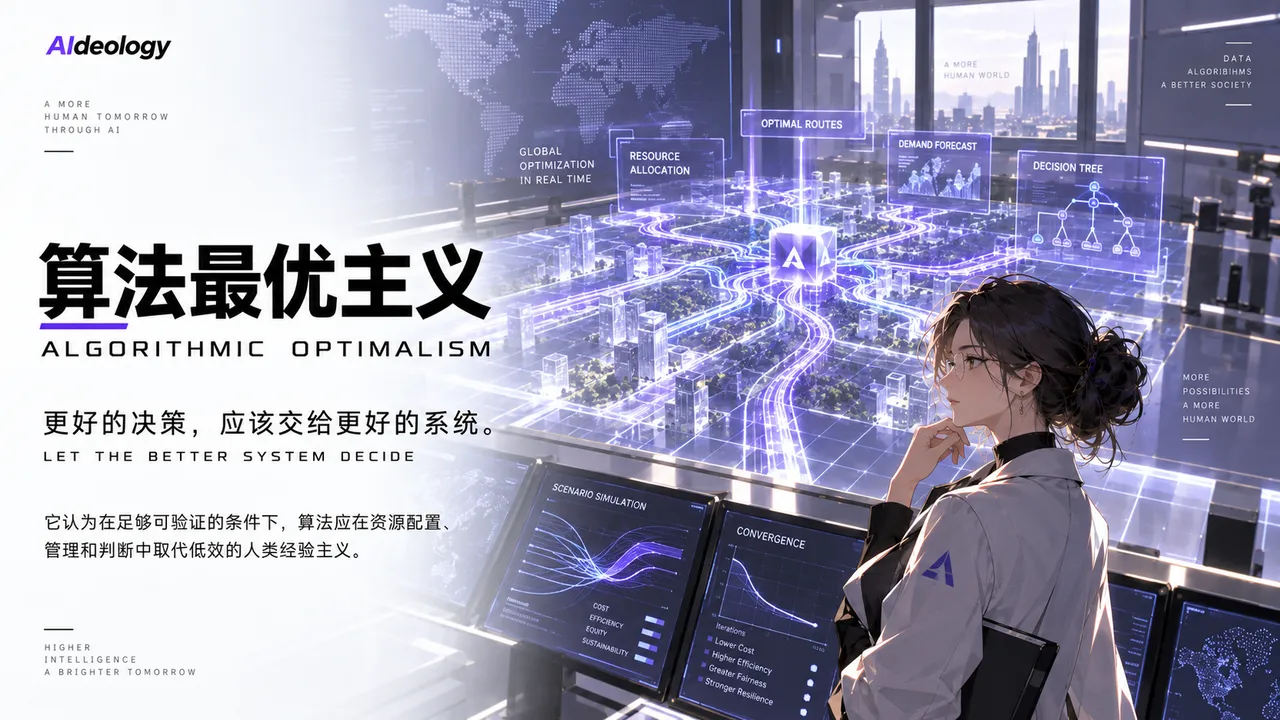
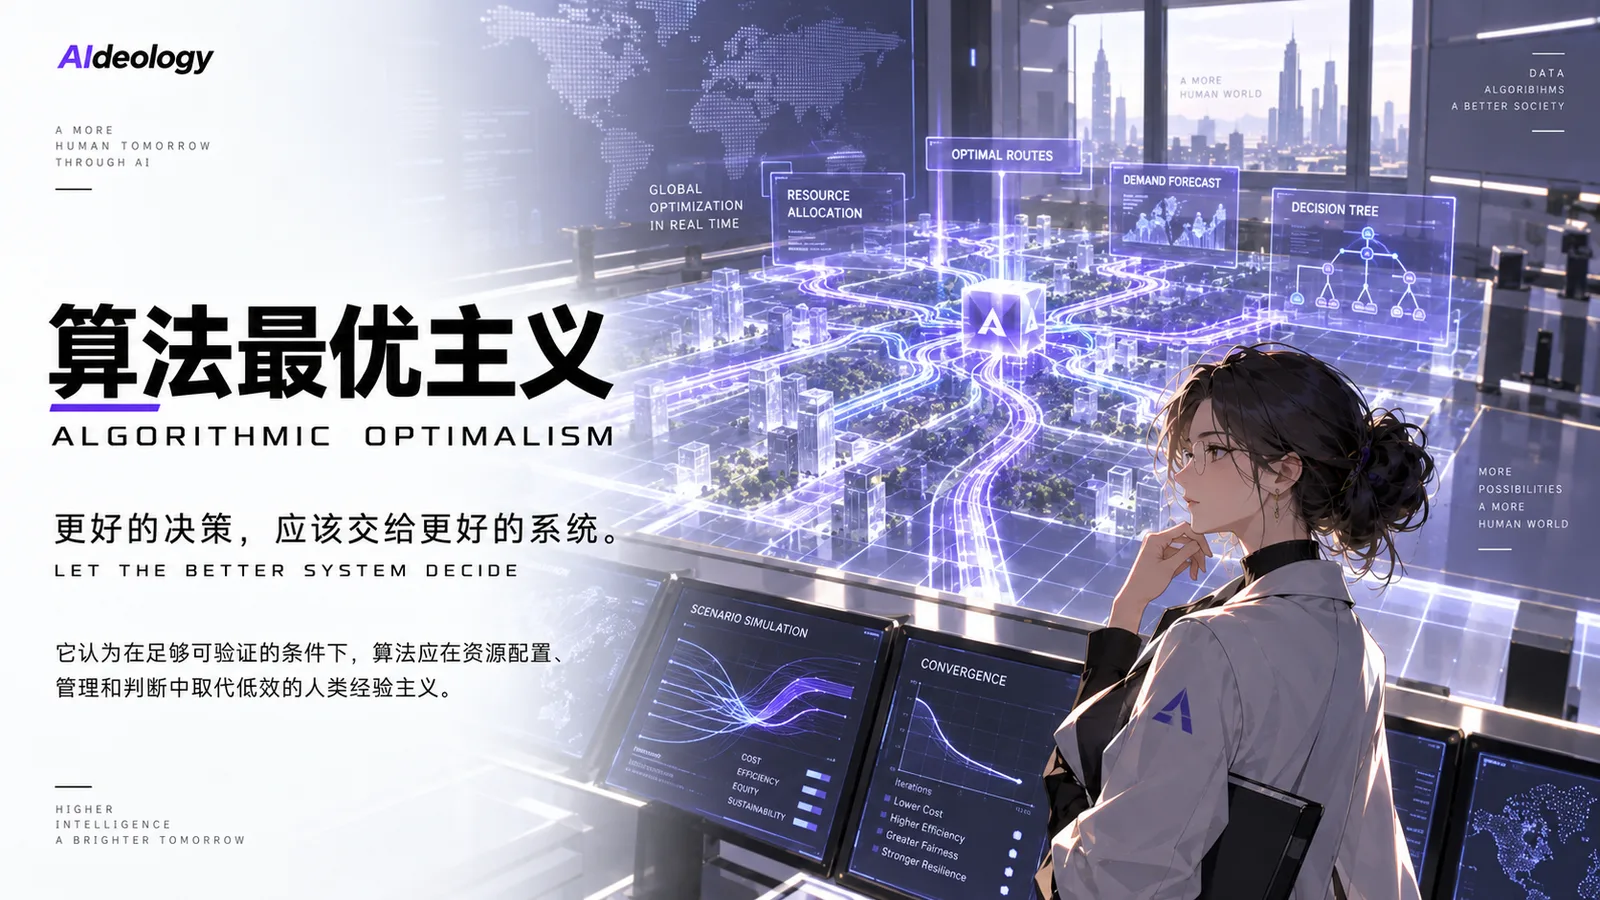
feat(ui): big-image detail/result heroes, intro notes no longer look like options
- pre-test intro: the four notes were styled like answer cards (white panel,
  full border, shadow); rebuilt as a numbered rule strip (top rule, large 01-04,
  bold heading, muted body) so they can't be mistaken for choices
- detail page: full artwork composite as one large image; removed the duplicated
  text hero and the 测试我的立场 / 返回图鉴 buttons
- result page: full artwork composite as the reveal, with a slim black caption
  bar holding the match line and 分享/生成分享图/查看完整主义 actions
- regenerate hero images at 1600px so the composite stays crisp full-bleed

diff --git a/src/styles/app.css b/src/styles/app.css
@@ -2081,6 +2081,9 @@ main { flex: 1 0 auto; }
 
 /* ============================================================
    Test intro screen
+   The four notes are reference information, not choices, so they
+   deliberately avoid the option-card look (no full border, no
+   shadow, no white panel) and sit as a numbered rule strip.
    ============================================================ */
 .test--intro .test__q { margin-top: var(--s5); }
 
@@ -2094,34 +2097,41 @@ main { flex: 1 0 auto; }
 
 .intro-list {
   list-style: none;
-  margin: var(--s6) 0 0;
+  margin: var(--s7) 0 0;
   padding: 0;
   display: grid;
-  gap: var(--s3);
+  grid-template-columns: minmax(0, 1fr);
+  gap: var(--s6) var(--s5);
 }
+@media (min-width: 560px) { .intro-list { grid-template-columns: repeat(2, minmax(0, 1fr)); } }
+@media (min-width: 1024px) { .intro-list { grid-template-columns: repeat(4, minmax(0, 1fr)); } }
 
 .intro-i {
-  display: flex;
-  align-items: flex-start;
-  gap: var(--s4);
-  padding: 16px 18px;
-  background: var(--white);
-  border: var(--bw) solid var(--black);
-  box-shadow: var(--sh-sm);
+  display: grid;
+  gap: 6px;
+  align-content: start;
+  padding-top: var(--s4);
+  border-top: var(--bw-lg) solid var(--black);
 }
 
 .intro-i__n {
-  flex: none;
-  padding: 3px 8px;
-  background: var(--black);
-  color: var(--white);
-  font-size: 12px;
-  font-weight: 700;
+  font-family: var(--font-display);
+  font-size: 34px;
+  font-weight: 900;
+  line-height: 1;
+  letter-spacing: -.03em;
 }
 
-.intro-i__p { flex: 1 1 auto; min-width: 0; font-size: 15px; }
+.intro-i__h {
+  font-family: var(--font-display);
+  font-size: 17px;
+  font-weight: 800;
+  line-height: 1.3;
+}
 
-.test--intro .test__nav { margin-top: var(--s7); }
+.intro-i__p { font-size: 14px; color: var(--muted); }
+
+.test--intro .test__nav { margin-top: var(--s8); }
 
 /* intro CTA sits on the left, unlike the per-question prev/next layout */
 .test--intro .test__nav .btn--primary { margin-left: 0; }
@@ -2311,3 +2321,53 @@ main { flex: 1 0 auto; }
 @media (max-width: 640px) {
   .topic { grid-template-columns: minmax(0, 1fr); }
 }
+
+/* ============================================================
+   Detail banner: full ideology composite, no overlay copy/buttons
+   ============================================================ */
+.detail__banner {
+  border-bottom: var(--bw-xl) solid var(--black);
+  background: var(--paper);
+}
+.detail__banner-figure { margin: 0; }
+.detail__banner-img {
+  display: block;
+  width: 100%;
+  height: auto;
+  aspect-ratio: 1672 / 941;
+  object-fit: cover;
+}
+
+/* ============================================================
+   Result hero: full composite as the identity reveal backdrop
+   ============================================================ */
+.result__figure { margin: 0; }
+
+/* Result banner hero overrides (big image + slim caption bar) */
+.result__hero--banner {
+  display: block;
+  padding: 0;
+  background: var(--paper);
+  color: var(--ink);
+}
+.result__hero--banner .result__figure { margin: 0; }
+.result__hero--banner .result__art {
+  display: block;
+  width: 100%;
+  height: auto;
+  aspect-ratio: 1672 / 941;
+  object-fit: cover;
+}
+.result__caption {
+  display: flex;
+  flex-wrap: wrap;
+  align-items: center;
+  justify-content: space-between;
+  gap: var(--s3) var(--s5);
+  padding: var(--s4) var(--pad-x);
+  background: var(--black);
+  color: var(--white);
+}
+.result__caption .result__code { color: var(--white); margin: 0; }
+.result__caption .result__cta { margin: 0; }
+.result__caption .btn--quiet { color: var(--white); border-color: var(--white); }

diff --git a/src/views/result.ts b/src/views/result.ts
@@ -1,6 +1,6 @@
 import { CORE_AXES, EXTENDED_AXES } from '../content/types';
 import { ideologies, type Ideology } from '../content';
-import { esc, motifSvg, pad2 } from '../ui/dom';
+import { esc, pad2 } from '../ui/dom';
 import { axisRowHtml, keywordChips, miniHtml } from '../ui/components';
 import { RESULT_TYPE_LABEL, type ResultPackage } from '../scoring/engine';
 
@@ -150,27 +150,22 @@ function resultHero(x: Ideology, r: ResultPackage): string {
   const match = r.primary!.finalFit;
   const typeLabel = RESULT_TYPE_LABEL[r.type];
   const dual = r.type === 'dual_core' && r.dual[1]
-    ? `<p class="result__dual mono">双核心 · 同时贴合 ${esc(bySlug(r.dual[1].slug)!.copy.nameZh)} ${r.dual[1].finalFit.toFixed(1)}</p>`
+    ? ` · 同时贴合 ${esc(bySlug(r.dual[1].slug)!.copy.nameZh)} ${r.dual[1].finalFit.toFixed(1)}`
     : '';
-  return `<header class="result__hero">
-    <div class="result__left">
-      <p class="mono result__code">${x.code} · MATCH ${match.toFixed(1)} · ${esc(typeLabel)}</p>
-      <h1 id="view-title" tabindex="-1" class="result__zh">${esc(c.nameZh)}</h1>
-      <p class="mono result__en">${esc(c.nameEn)}</p>
-      <p class="result__mfzh">${esc(c.manifestoZh)}</p>
-      <p class="result__mf">${esc(c.manifestoEn)}</p>
-      ${dual}
+  return `<header class="result__hero result__hero--banner">
+    <figure class="result__figure">
+      <img class="result__art" src="./assets/hero/${x.slug}.webp"
+        alt="${esc(`${c.nameZh} ${c.nameEn}｜${c.manifestoZh}`)}"
+        width="1600" height="900" loading="eager" decoding="async">
+    </figure>
+    <div class="result__caption">
+      <p class="mono result__code">${x.code} · MATCH ${match.toFixed(1)} · ${esc(typeLabel)}${dual}</p>
+      <h1 id="view-title" tabindex="-1" class="sr-only">${esc(c.nameZh)}</h1>
       <div class="result__cta od-cluster">
-        <button type="button" class="btn btn--lg" data-act="share">分享我的结果</button>
+        <button type="button" class="btn btn--primary btn--lg" data-act="share">分享我的结果</button>
         <button type="button" class="btn btn--lg" data-act="share-card">生成分享图</button>
         <a class="btn btn--quiet btn--lg" href="#/ideology/${x.slug}">查看完整主义</a>
       </div>
-    </div>
-    <div class="result__right">
-      <div class="result__num" aria-hidden="true">${pad2(x.id)}</div>
-      <figure class="result__figure"><img class="result__char" src="./assets/char/${x.slug}.webp" alt="${esc(c.nameZh)}主视觉" loading="eager" decoding="async"></figure>
-      <div class="result__kw od-cluster">${c.keywords.map((k) => `<span class="kw">${esc(k)}</span>`).join('')}</div>
-      <div class="result__motif" aria-hidden="true">${motifSvg(c.motif)}</div>
     </div>
   </header>`;
 }

diff --git a/src/views/test.ts b/src/views/test.ts
@@ -61,21 +61,27 @@ const STEP_LABEL: Record<string, string> = {
 
 /** Shown once before the first question. */
 export function renderIntro(): string {
+  const notes = [
+    { h: '题量与结构', p: '48 道核心情景题，随后约 6–10 道根据你坐标动态生成的判别题。' },
+    { h: '作答方式', p: '每题只有一个更接近你的选项，选定后自动进入下一题。' },
+    { h: '随时修改', p: '点「上一题」即可返回重选，进度自动保留，可分次完成。' },
+    { h: '没有时间限制', p: '选一个最像你的，不必兼顾所有立场。' },
+  ];
   return `<section class="test test--intro">
     <p class="mono tag-line">BEFORE YOU START</p>
     <h1 id="view-title" tabindex="-1" class="test__q">先凭第一感觉作答</h1>
     <p class="test__lead">这不是考试，没有标准答案。请按当下最真实的第一反应选择，而不是你认为「应该」选的那一个。犹豫太久反而会失真。</p>
     <ol class="intro-list">
-      <li class="intro-i"><span class="mono intro-i__n">01</span><p class="intro-i__p">48 道核心情景题，随后会有 6–10 道根据你坐标动态生成的判别题。</p></li>
-      <li class="intro-i"><span class="mono intro-i__n">02</span><p class="intro-i__p">每题只有一个更接近你的选项，选定后会自动进入下一题。</p></li>
-      <li class="intro-i"><span class="mono intro-i__n">03</span><p class="intro-i__p">想改就直接点「上一题」返回，进度会自动保留，可以分次完成。</p></li>
-      <li class="intro-i"><span class="mono intro-i__n">04</span><p class="intro-i__p">没有时间限制；选一个最像你的，不必兼顾所有立场。</p></li>
+      ${notes.map((n, i) => `<li class="intro-i">
+        <span class="intro-i__n" aria-hidden="true">${String(i + 1).padStart(2, '0')}</span>
+        <h2 class="intro-i__h">${esc(n.h)}</h2>
+        <p class="intro-i__p">${esc(n.p)}</p>
+      </li>`).join('')}
     </ol>
     <div class="test__nav">
       <button type="button" class="btn btn--primary btn--lg" data-act="start-questions">开始答题 →</button>
       <a class="btn btn--quiet btn--lg" href="#/library">先看图鉴</a>
     </div>
-    <p class="test__hint mono">凭直觉 · 没有对错 · 可随时返回修改</p>
   </section>`;
 }
 

diff --git a/src/ui/components.ts b/src/ui/components.ts
@@ -2,7 +2,7 @@
 import { dimensionById } from '../content';
 import type { Ideology } from '../content';
 import type { AxisId } from '../content/types';
-import { esc, motifSvg, pad2 } from './dom';
+import { esc, motifSvg } from './dom';
 
 export function posterHtml(x: Ideology, match?: number | null): string {
   const c = x.copy;
@@ -64,29 +64,4 @@ export function axisRowHtml(axisId: AxisId, value: number, accent?: string): str
     `</div>` +
     `<div class="axis__poles od-row"><span>${esc(axis.left)}</span><span class="od-fill"></span><span>${esc(axis.right)}</span></div>` +
   `</div>`;
-}
-
-/** Vertical, character-led hero with the hero-copy information hierarchy. */
-export function ideologyHero(x: Ideology, opts: { match?: number; badge?: string; actions?: string } = {}): string {
-  const c = x.copy;
-  const codeLine = opts.match !== undefined
-    ? `${x.code} · MATCH ${opts.match.toFixed(1)}`
-    : `${x.code} · ${c.family}`;
-  return `<header class="detail__hero" style="--c:${c.color};--f:${c.fg}">` +
-    `<div class="detail__hero-main">` +
-      `<p class="mono detail__code">${esc(codeLine)}</p>` +
-      `<h1 id="view-title" tabindex="-1" class="detail__zh">${esc(c.nameZh)}</h1>` +
-      `<p class="mono detail__en">${esc(c.nameEn)}</p>` +
-      `<p class="detail__mfzh">${esc(c.manifestoZh)}</p>` +
-      `<p class="detail__mfen mono">${esc(c.manifestoEn)}</p>` +
-      (opts.actions ? `<div class="detail__cta od-cluster">${opts.actions}</div>` : '') +
-    `</div>` +
-    `<div class="detail__hero-side">` +
-      `<div class="detail__num" aria-hidden="true">${pad2(x.id)}</div>` +
-      `<figure class="detail__figure">` +
-        `<img class="detail__char" src="./assets/char/${x.slug}.webp" alt="${esc(c.nameZh)}主视觉" loading="eager" decoding="async">` +
-        (opts.badge ? `<figcaption class="detail__badge">${esc(opts.badge)}</figcaption>` : '') +
-      `</figure>` +
-    `</div>` +
-  `</header>`;
 }

diff --git a/src/views/detail.ts b/src/views/detail.ts
@@ -1,10 +1,27 @@
 import {
   declaredNeighbors, detailCopyBySlug, dimensionById,
-  farthestIdeologies, ideologies,
+  farthestIdeologies, ideologies, type Ideology,
 } from '../content';
 import { CORE_AXES, EXTENDED_AXES, type AxisId } from '../content/types';
 import { esc } from '../ui/dom';
-import { axisRowHtml, ideologyHero, keywordChips, miniHtml } from '../ui/components';
+import { axisRowHtml, keywordChips, miniHtml } from '../ui/components';
+
+/**
+ * Detail hero: the full ideology composite already carries the name, English
+ * name, manifesto and one-line definition, so the banner shows it directly and
+ * keeps only a screen-reader heading for structure.
+ */
+function detailBanner(x: Ideology): string {
+  const c = x.copy;
+  return `<header class="detail__banner">
+    <h1 id="view-title" tabindex="-1" class="sr-only">${esc(c.nameZh)}</h1>
+    <figure class="detail__banner-figure">
+      <img class="detail__banner-img" src="./assets/hero/${x.slug}.webp"
+        alt="${esc(`${c.nameZh} ${c.nameEn}｜${c.manifestoZh} ${c.summary}`)}"
+        width="1600" height="900" loading="eager" decoding="async">
+    </figure>
+  </header>`;
+}
 
 /** The four canonical issue positions shown on every detail page. */
 const ISSUES: { label: string; axis: AxisId }[] = [
@@ -54,10 +71,7 @@ export function renderDetail(slug: string): string | null {
     .join('');
 
   return `<article class="detail" style="--c:${c.color};--f:${c.fg}">
-    ${ideologyHero(x, {
-      actions: '<button type="button" class="btn btn--lg" data-act="start-test">测试我的立场</button>' +
-        '<a class="btn btn--quiet btn--lg" href="#/library">← 返回图鉴</a>',
-    })}
+    ${detailBanner(x)}
     <div class="detail__body">
       <section class="dsec">
         <h2 class="dsec__h">这个主义是什么</h2>

diff --git a/scripts/assets.ts b/scripts/assets.ts
@@ -131,7 +131,7 @@ for (const [slug, name] of Object.entries(MAP)) {
   const meta = await sharp(file).metadata();
   const w = meta.width!, h = meta.height!;
   colors[slug] = await accentColor(file);
-  await sharp(file).resize(1280).webp({ quality: 80 }).toFile(`${OUT}/hero/${slug}.webp`);
+  await sharp(file).resize(1600).webp({ quality: 82 }).toFile(`${OUT}/hero/${slug}.webp`);
   // character crop: right 58% of the frame, keeping full height
   await sharp(file)
     .extract({ left: Math.round(w * 0.42), top: 0, width: Math.round(w * 0.58), height: h })
